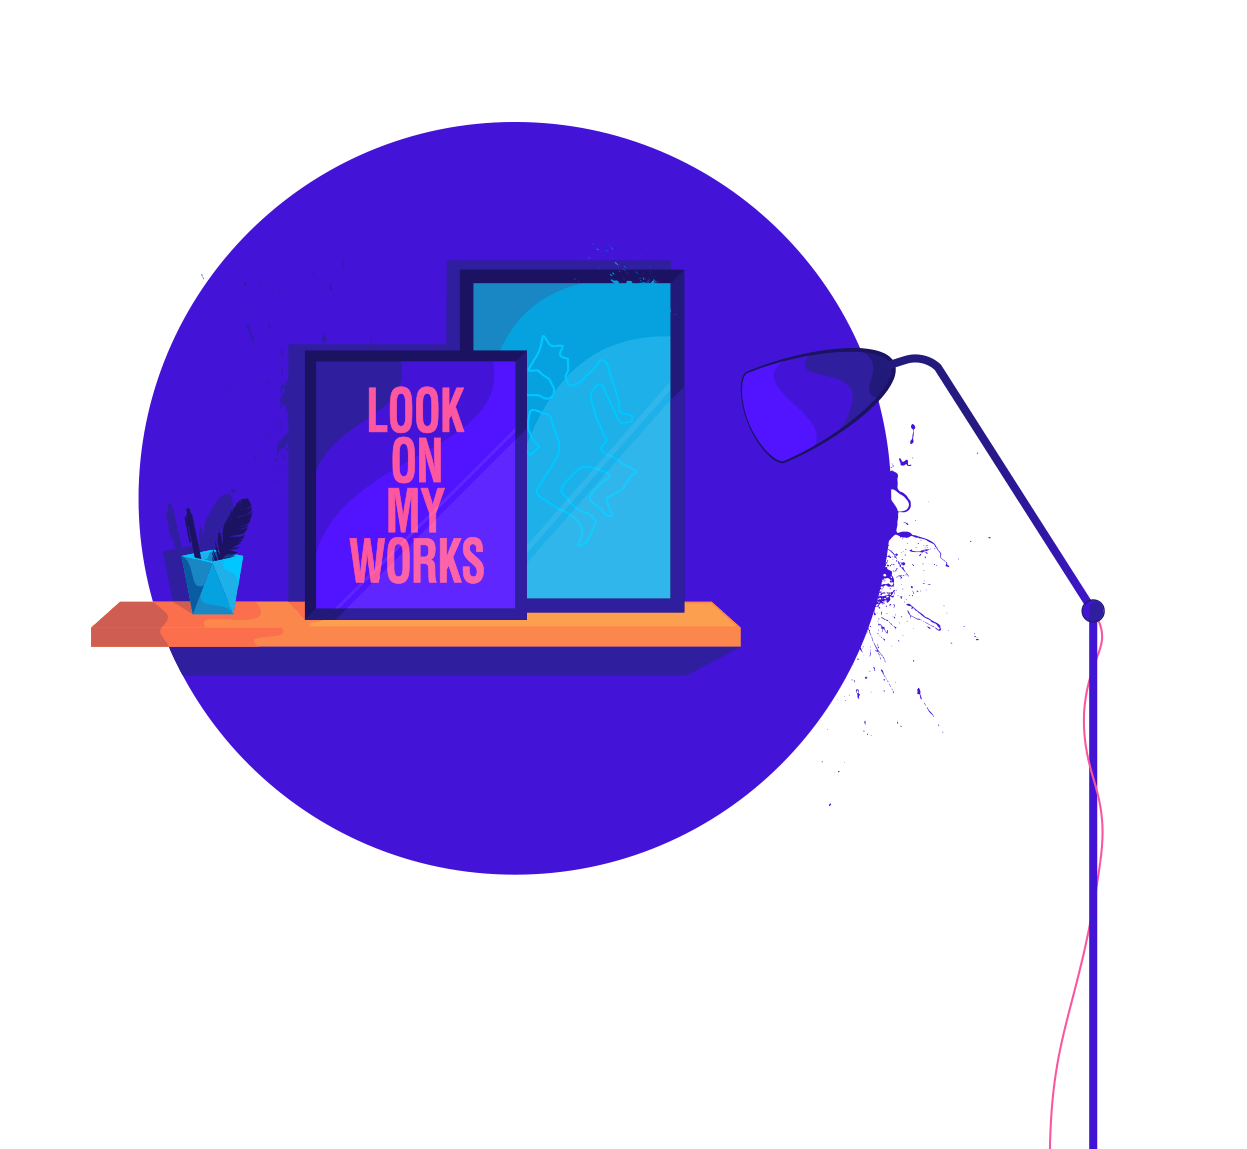
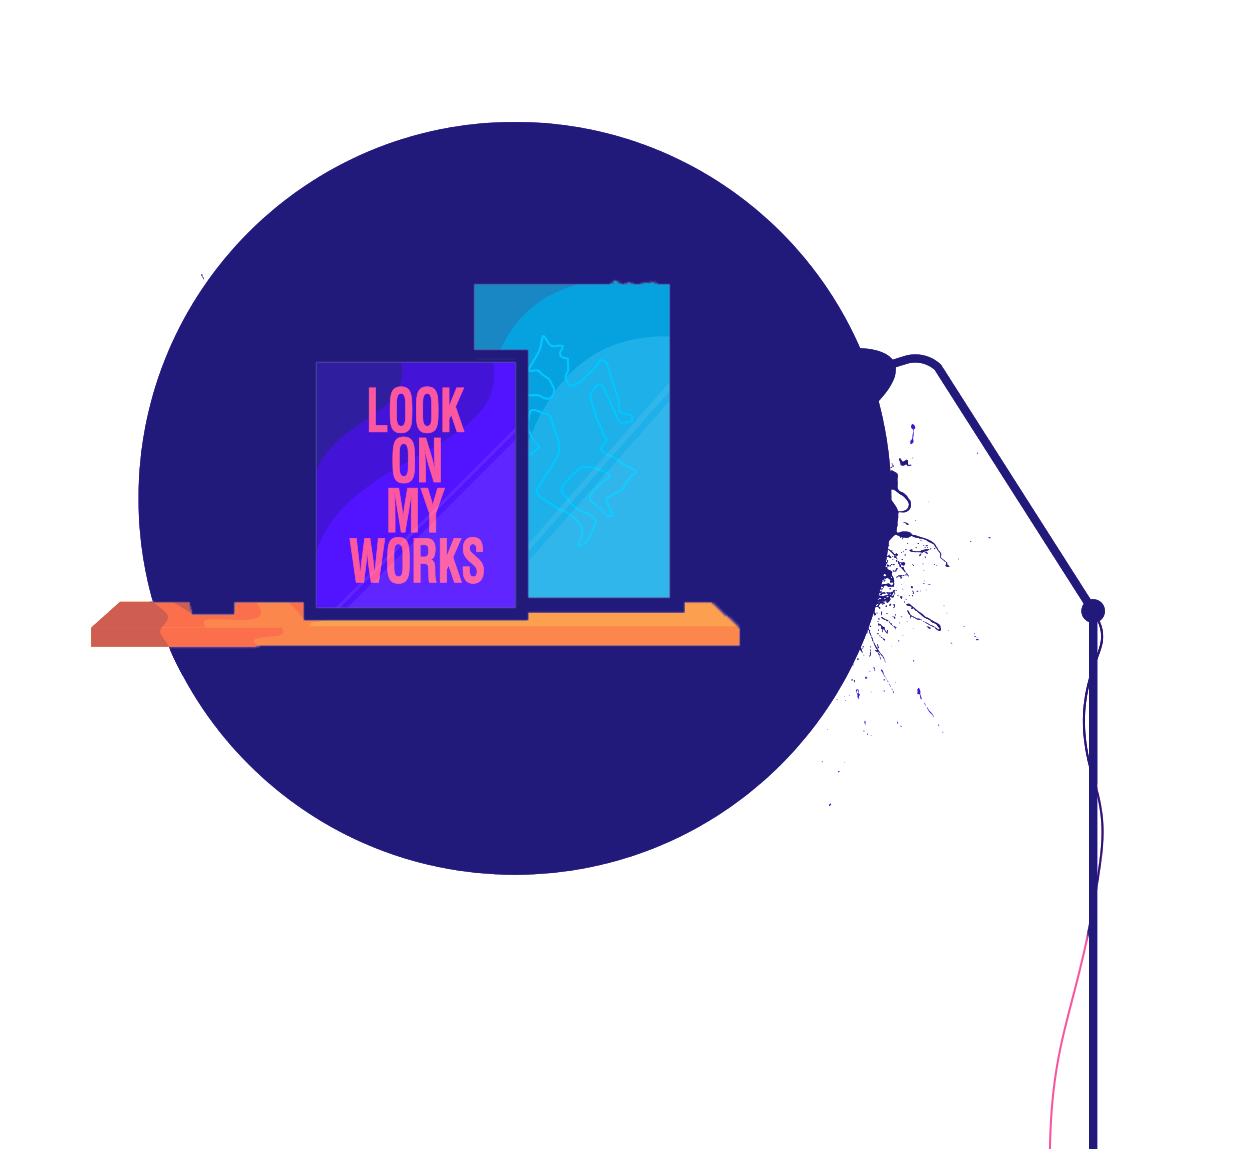
add the text animation and new bg photo

Changed region(s): [[0.0914, 0.0914, 0.7618, 0.7615], [0.8532, 0.4874, 0.8837, 1.0], [0.7923, 0.396, 0.8532, 0.4874]]

diff --git a/index.html b/index.html
@@ -10,7 +10,6 @@
   <link href="https://stackpath.bootstrapcdn.com/font-awesome/4.7.0/css/font-awesome.min.css" rel="stylesheet" integrity="sha384-wvfXpqpZZVQGK6TAh5PVlGOfQNHSoD2xbE+QkPxCAFlNEevoEH3Sl0sibVcOQVnN" crossorigin="anonymous">
   <!-- css -->
   <link rel="stylesheet" href="./style/index.css">
-
   <!-- js animation -->
   <script src="https://cdn.jsdelivr.net/npm/simple-parallax-js@5.0.2/dist/simpleParallax.min.js">
   
@@ -20,6 +19,7 @@
   <title>Portfolio/heng</title>
 </head>
 <body>
+  <!-- section1 -->
   <div class="container_one" id="parallax">
       <nav>
           <div class="logo_image">
@@ -37,7 +37,7 @@
               <li><a href="#">Projects</a></li>
               
             </ul>
-          </nav>
+      </nav>
           <section class="sec1">
             <div class="content">
                 <div class="menu">
@@ -71,7 +71,9 @@
                 </div>
               
                 <div class="computer">
-                  <img src="./asset/2.png" alt="">
+                
+                  <img src="./asset/bg1.svg" alt="background" >
+                  
                 </div>
 
             </div>  
@@ -79,21 +81,17 @@
 
   </div>
 
-
-
-
+<!-- section 2 -->
 
   <div class="container_two">
     <div class="logo_image">
       <a href="index.html"><img src="./asset/logo2.svg" alt="logo" class="logo2"></a>
 
       <div class="info">
-       
-       
-        
           <div class="content">
             <div class="intro">
-
+              <!-- <a href="project.html">Contact Me</a> -->
+      
               <h1 class="hello">HELLO</h1>
               <h1>  I'M HENG</h1>
               <h3>An entry-level web developer who is able to build Web sites from layout,
@@ -105,42 +103,40 @@
             <div class="photo">
               <img src="./asset/photo.png" alt="">
               <div class="coder">
-                <h1> &lt; developer &gt;</h1>
-                <p>Full stack Developer who focuses on writing clean, <br> elegant and efficient code.</p>
-                <h2> &lt; designer &gt;</h2>
-                <p class="ux_designer">UI/UX experiences</p>
+                <div class="item1">
+                  <h1> &lt; developer &gt;</h1>
+                  <p>Full stack Developer who focuses on writing clean, <br> elegant and efficient code.</p>
+                </div>
+                <div class="item2">
+                  <h2> &lt; designer &gt;</h2>
+                  <p >UI/UX experiences</p>
+                </div>
+                
+                
               </div>
             </div>
           </div>
         
         </div>
 
-
     </div>
-
- 
-    
-
   </div>
 
 
-  <div class="container_three">
-      <section calss="sec3">
-          <div class="content3">
-            
-    
-          </div>
-      </section>
+  <!-- section3 -->
+  <footer>
+      <div class="container">
+
+      </div>
+
+  </footer>
+      
   
-    </div>
+
  
 
   
 
-
-
-
-  
 
 
   <script src="http://ajax.googleapis.com/ajax/libs/jquery/2.1.1/jquery.min.js"></script>

diff --git a/style/index.css b/style/index.css
@@ -13,6 +13,7 @@
 }
 body{
   cursor: url(../asset/cursor.png),pointer;
+  overflow-x: hidden;
 }
 .hidden{
   display: none;
@@ -48,7 +49,8 @@ body{
  }
 
 section .info{
-  margin-left:80px;
+  margin-left:10%;
+  margin-bottom: 5%;
 }
 
 section .info span{
@@ -85,7 +87,9 @@ section .computer{
   right:40px;
 }
 section .computer img{
-  height: 600px;
+  height: 350px;
+  padding-bottom:40px;
+  padding-right: 40px;
 }
 
 
@@ -122,11 +126,6 @@ section .computer img{
   color:rgb(24,22,95);
 
 }
-.thumbnail{
-  position: static;
-  top:30px;
-  left:2000px;
-}
 
 
 
@@ -143,7 +142,7 @@ section .computer img{
 
 .container_two{
   height:100vh;
-  width: 100vw;
+  width: 100%;
   background: rgb(60,44,105);
 }
 
@@ -151,7 +150,7 @@ section .computer img{
 .container_two .info{
   margin:0 auto;
   /* border:1px solid white; */
-  height: 100%;
+  height: 90%;
   width: 90%;
 
 }
@@ -163,28 +162,27 @@ section .computer img{
 
 
 
-.container_two .photo img{
-  position: absolute;
-  bottom: 0;
-  height: 780px;
-
+.container_two .intro{
+  height: auto;
+  width: 100%;
+  position: relative;
 }
+
+
 .container_two .intro .hello{
   font-family: 'Lato', sans-serif;
   position: absolute;
-  bottom:340px;
-  left:420px;
+  bottom:40%;
+  right:2%;
   font-size: 90px;
   transform: rotate(-90deg);
   color:white;
 }
-
-
 .container_two .intro h1{
   font-family: 'Lato', sans-serif;
   position: absolute;
-  bottom:340px;
-  left:470px;
+  bottom:42%;
+  right:-27%;
   font-size: 90px;
   transform: rotate(-90deg);
   color:white;
@@ -194,46 +192,52 @@ section .computer img{
   font-size: 18px;
   text-align: right;
   font-family: 'Lato', sans-serif;
-  padding-top:600px;
+  padding-top:500px;
   padding-right:20px;
-
   color:white;
 }
-.coder h1{
+
+.container_two .photo img{
+  position: absolute;
+  bottom: 0;
+  height:100%;
+}
+
+.coder .item1{
+  position: absolute;
+  top:25%;
+  right:10%;
+}
+.coder .item1 h1{
   font-size: 60px;
   text-align: right;
   font-family: 'Lato', sans-serif;
-  position: absolute;
-  top:250px;
-  right:120px;
   color:white;
 }
 
-.coder p{
+.coder  .item1 p{
   font-size: 18px;
   font-family: 'Lato', sans-serif;
-  position: absolute;
-  bottom:450px;
-  right:100px;
   color:white;
 }
+.coder .item2{
+  position: absolute;
+  top:55%;
+  right:15%;
+}
+
+
 
 .coder h2{
   font-size: 40px;
   text-align: right;
   font-family: 'Lato', sans-serif;
-  position: absolute;
-  top:480px;
-  right:180px;
   color:white;
 }
 
-.coder .ux_designer{
+.coder .item2 p{
   font-size: 18px;
   font-family: 'Lato', sans-serif;
-  position: absolute;
-  bottom:270px;
-  right:250px;
   color:white;
 }
 
@@ -245,8 +249,9 @@ section .computer img{
 
 /* section 3 */
 
-.container_three{
-  height: 30vh;
+
+footer .container{
+  height: 20vh;
   background: rgb(245,190,90);
 }
 

diff --git a/style/home_menu.css b/style/home_menu.css
@@ -3,11 +3,11 @@
 section .menu {
  
   cursor: pointer;
-  position: relative;
+  position: absolute;
   width: 50px;
   height: 50px;
-  right:-100px;
-  top:-330px;
+  right:10%;
+  top:10%;
 }
 
 section .menu .title{
